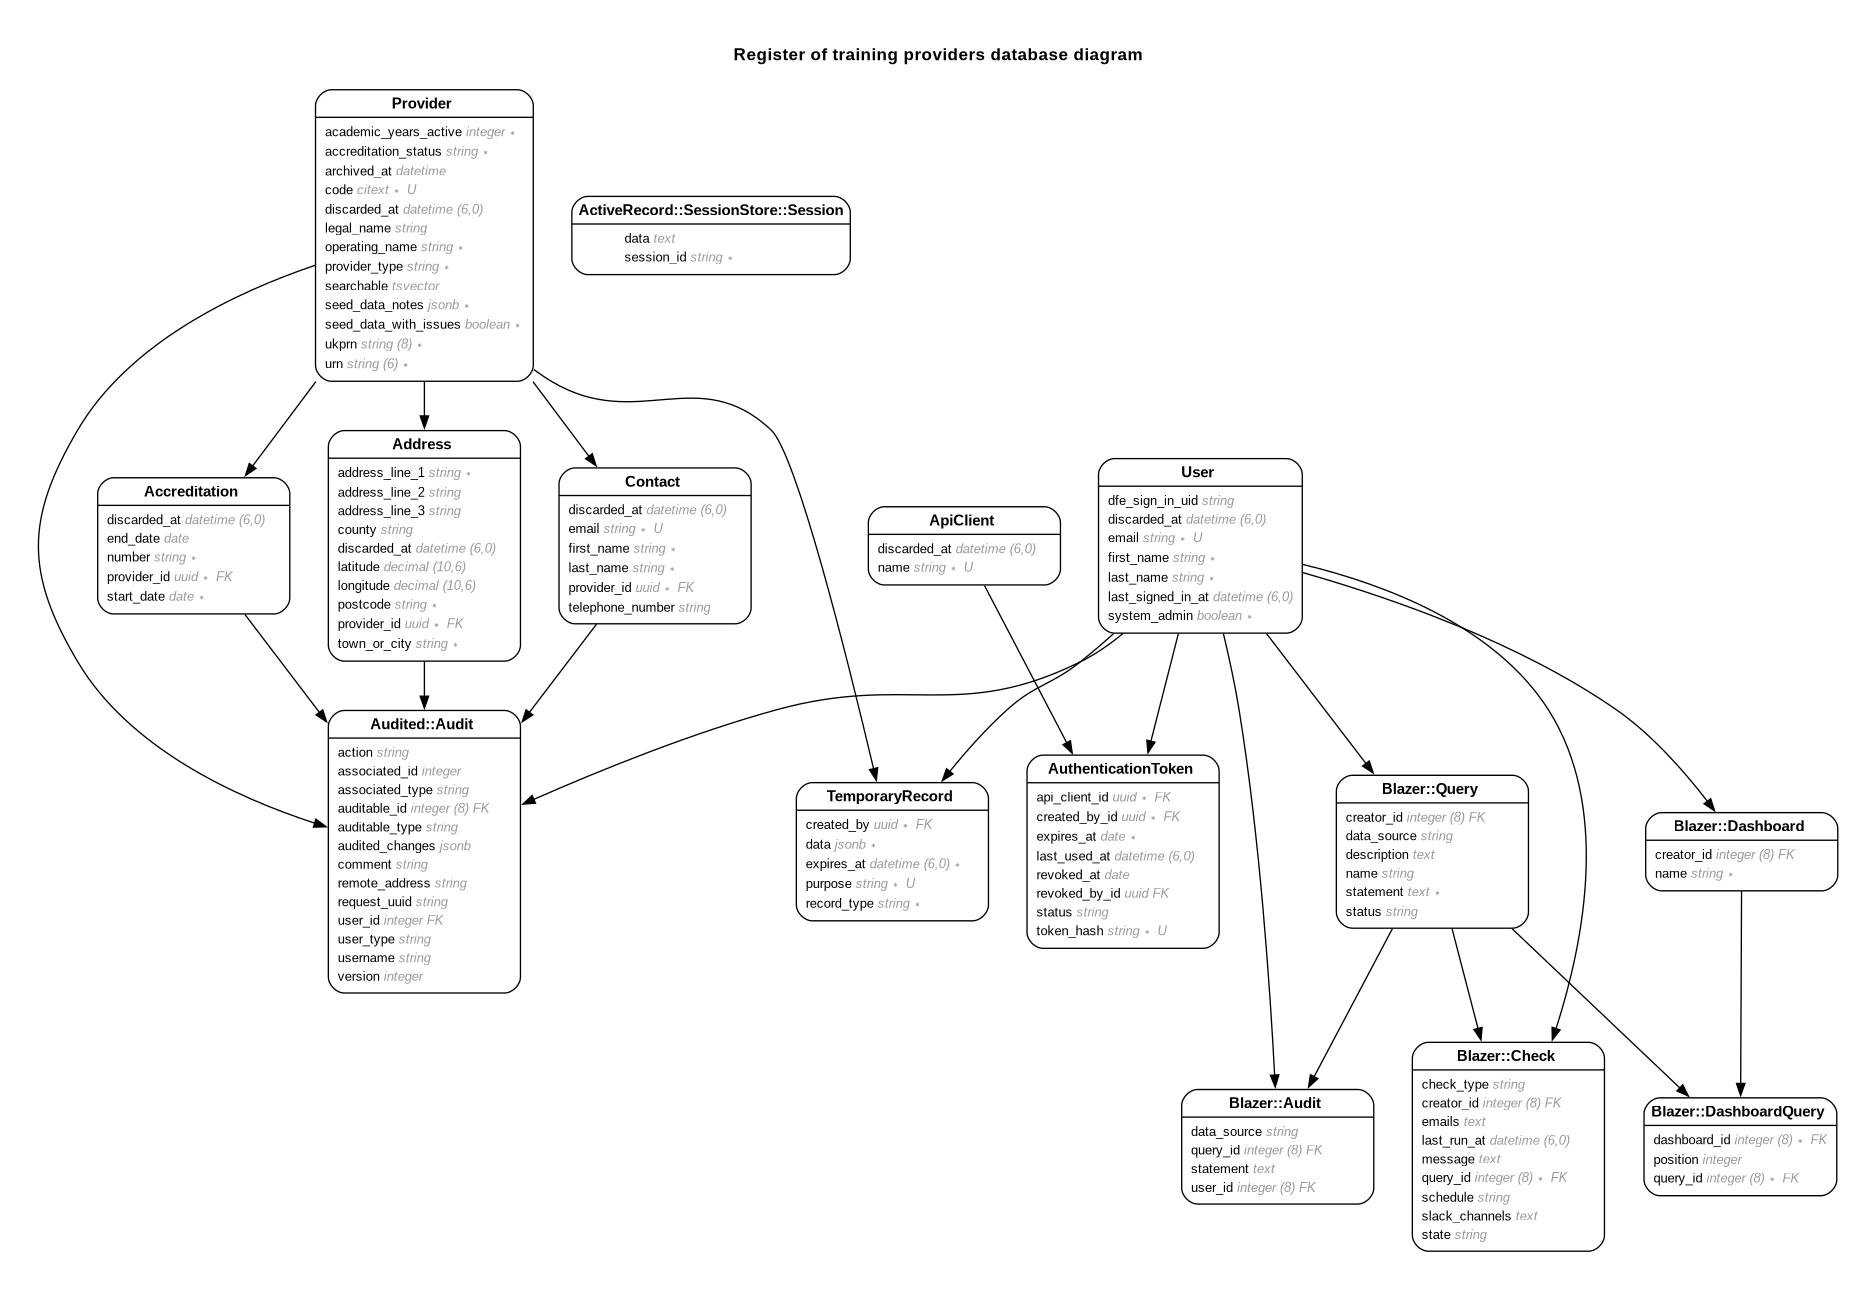
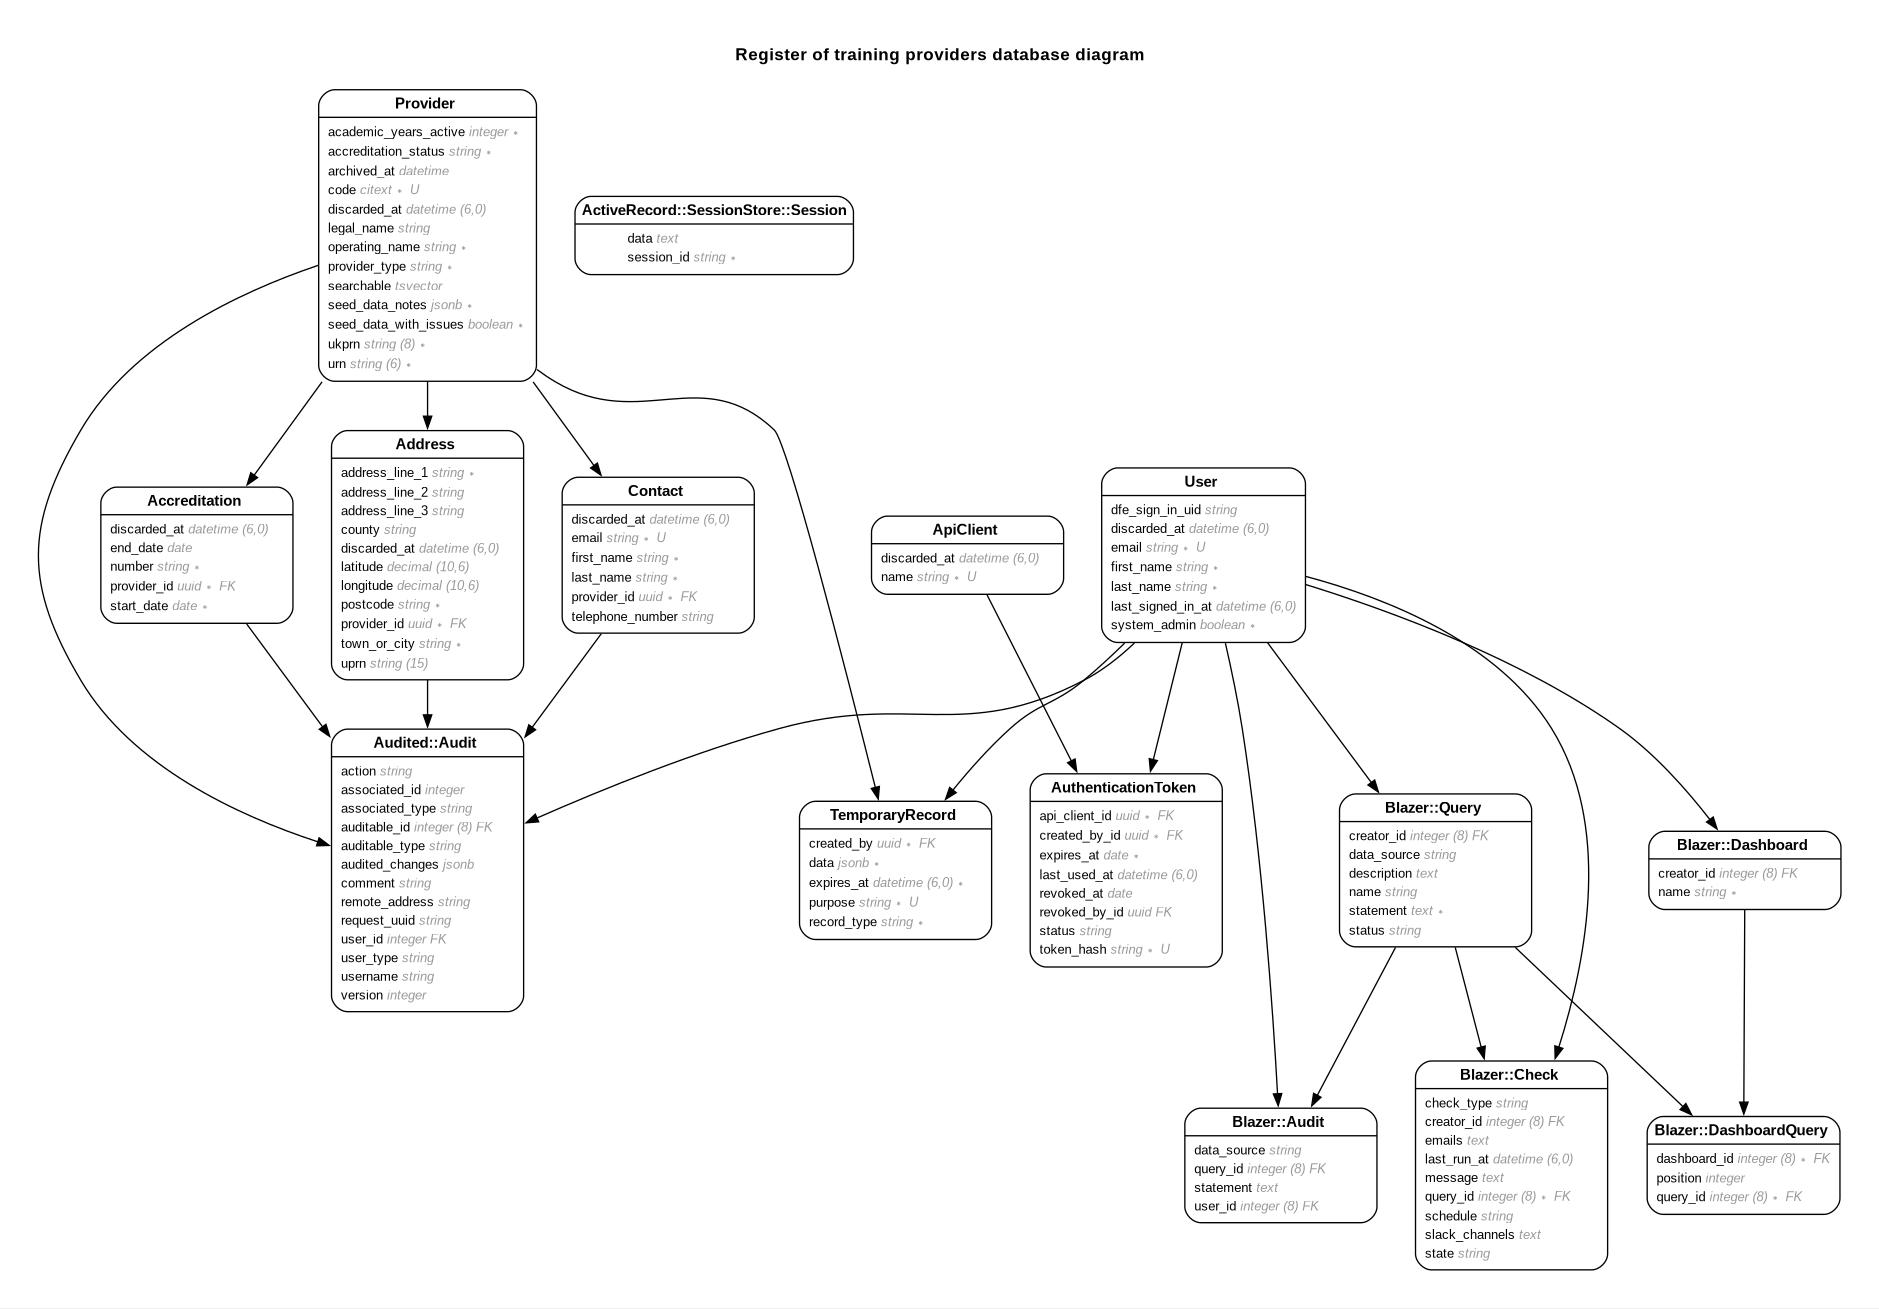
[0300] Added migrations for uprn on address
Unique Property Reference Number, can be used as golden thread

diff --git a/db/schema.rb b/db/schema.rb
@@ -10,7 +10,7 @@
 #
 # It's strongly recommended that you check this file into your version control system.
 
-ActiveRecord::Schema[8.1].define(version: 2025_12_11_114814) do
+ActiveRecord::Schema[8.1].define(version: 2025_12_16_141757) do
   # These are extensions that must be enabled in order to support this database
   enable_extension "citext"
   enable_extension "pg_catalog.plpgsql"
@@ -51,6 +51,7 @@ ActiveRecord::Schema[8.1].define(version: 2025_12_11_114814) do
     t.uuid "provider_id", null: false
     t.string "town_or_city", null: false
     t.datetime "updated_at", null: false
+    t.string "uprn", limit: 15
     t.index ["created_at"], name: "index_addresses_on_created_at"
     t.index ["provider_id"], name: "index_addresses_on_provider_id"
   end

diff --git a/app/models/address.rb b/app/models/address.rb
@@ -12,6 +12,7 @@
 #  longitude      :decimal(10, 6)
 #  postcode       :string           not null
 #  town_or_city   :string           not null
+#  uprn           :string(15)
 #  created_at     :datetime         not null
 #  updated_at     :datetime         not null
 #  provider_id    :uuid             not null
@@ -40,4 +41,6 @@ class Address < ApplicationRecord
   validates :postcode, presence: true, postcode: true
 
   audited associated_with: :provider, except: [:provider_id]
+
+  validates :uprn, length: { maximum: 15 }
 end

diff --git a/db/migrate/20251216141757_add_uprn_to_address.rb b/db/migrate/20251216141757_add_uprn_to_address.rb
@@ -1,0 +1,5 @@
+class AddUprnToAddress < ActiveRecord::Migration[8.1]
+  def change
+    add_column :addresses, :uprn, :string, limit: 15
+  end
+end
